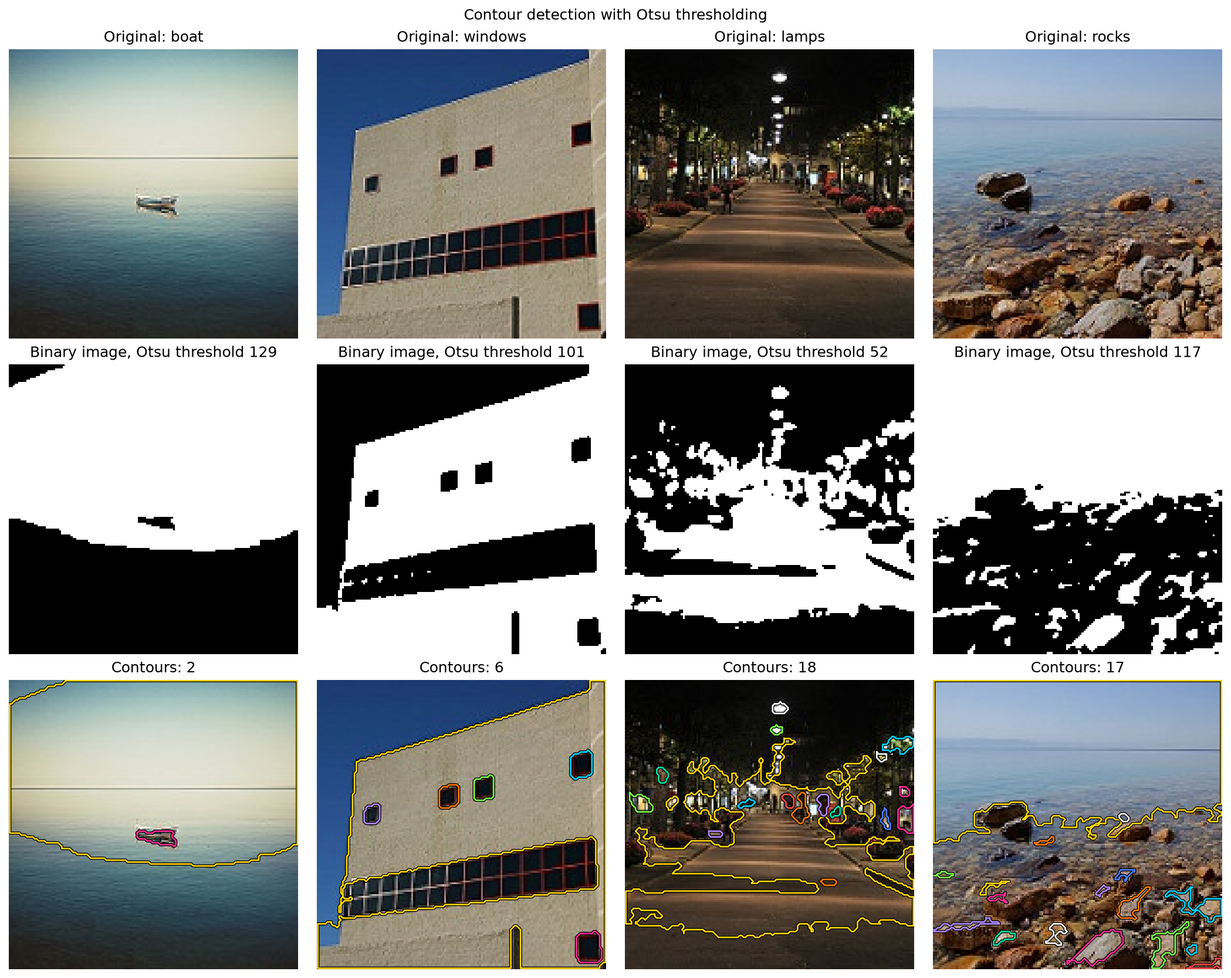
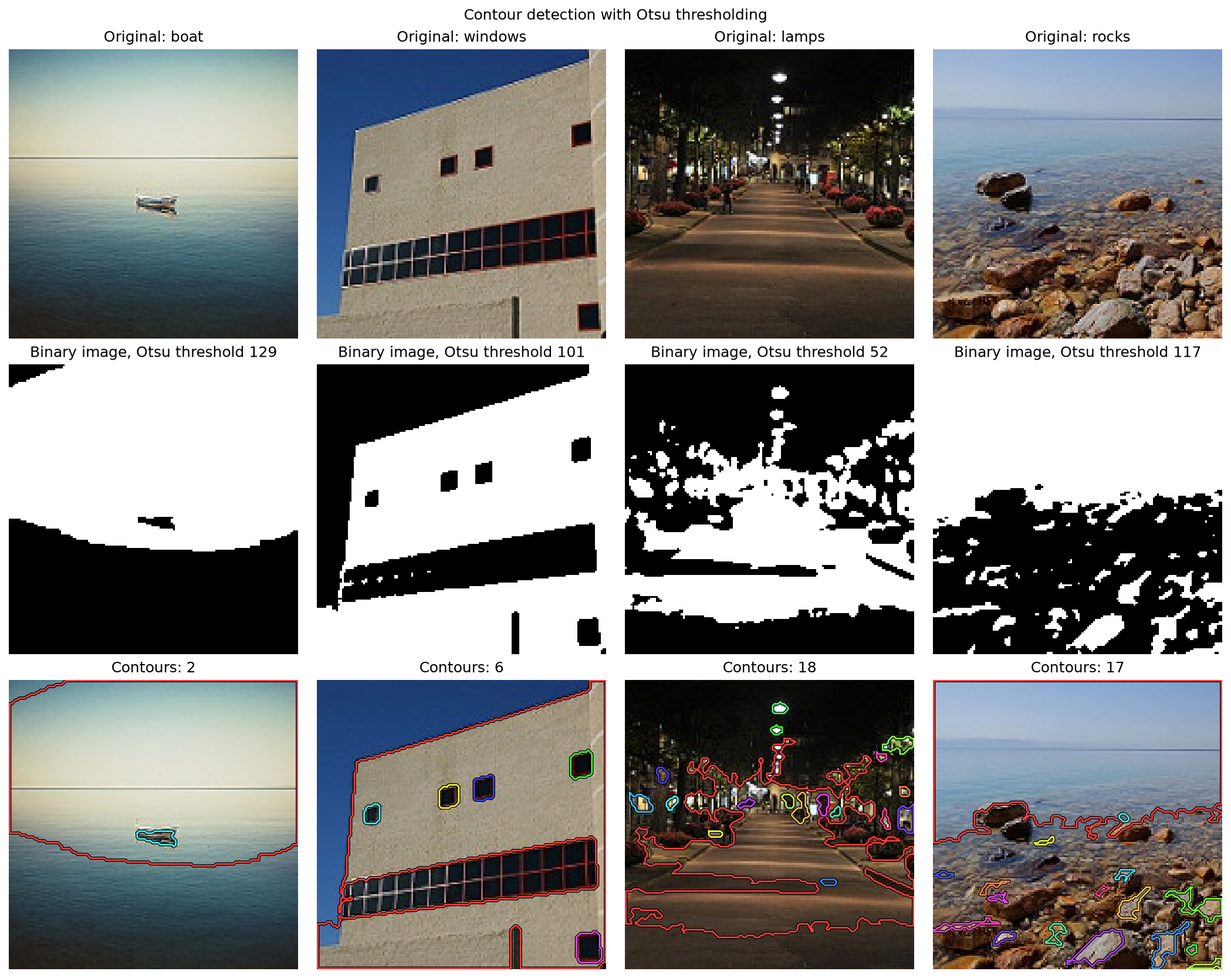
Polish feature detection analysis and project status

diff --git a/src/contour.py b/src/contour.py
@@ -5,6 +5,7 @@ import cv2
 import matplotlib.pyplot as plt
 import numpy as np
 from matplotlib import patheffects
+from matplotlib.colors import hsv_to_rgb
 from matplotlib.lines import Line2D
 
 from blob import BASELINE as BLOB_BASELINE
@@ -28,18 +29,15 @@ PARAMETER_CONFIGURATIONS = [
 PARAMETER_IMAGE = "rocks"
 SWEEP_THRESHOLDS = np.arange(20, 231, 10)
 SWEEP_BLUR_SIZES = [1, 3, 5, 7, 9, 11, 13, 15]
-CONTOUR_COLORS = [
-    "#ffd60a",
-    "#ff2d95",
-    "#00d4ff",
-    "#7cff4f",
-    "#ff7a00",
-    "#b388ff",
-    "#ffffff",
-    "#00e0a4",
-    "#ff4d4d",
-    "#4d7cff",
-]
+
+
+def contour_colors(number_of_contours):
+    # Evenly spaced hues are unique; golden-angle ordering separates neighbours.
+    hue_order = np.argsort((np.arange(number_of_contours) * 0.61803398875) % 1)
+    hues = hue_order / max(number_of_contours, 1)
+    return hsv_to_rgb(np.column_stack([
+        hues, np.full(number_of_contours, 0.75), np.ones(number_of_contours)
+    ]))
 
 
 def to_uint8(image):
@@ -105,13 +103,14 @@ def summarize_contours(contours):
 def draw_contours(axis, color_image, contours):
     axis.imshow(color_image)
     outline = [patheffects.withStroke(linewidth=2.6, foreground="black")]
-    for index, contour in enumerate(contours):
+    colors = contour_colors(len(contours))
+    for contour, color in zip(contours, colors):
         points = contour[:, 0, :]
         closed_points = np.vstack([points, points[:1]])
         axis.plot(
             closed_points[:, 0],
             closed_points[:, 1],
-            color=CONTOUR_COLORS[index % len(CONTOUR_COLORS)],
+            color=color,
             linewidth=1.3,
             path_effects=outline,
         )

diff --git a/report/notes.md b/report/notes.md
@@ -8,9 +8,20 @@ Most of the energy is concentrated near the center of the spectrum. This shows t
 
 ### Low-pass filtering
 
-Gaussian noise with mean 0 and standard deviation 25 was added using a fixed random seed. Cutoff radii of 10, 20 and 35 pixels were selected as increasingly permissive filters, making the balance between noise removal and retained detail easy to observe.
+Gaussian noise with mean 0 and standard deviation 25 was added using the fixed random seed 42. Cutoff radii of 10, 20, 35, 50 and 70 pixels were tested on the same noisy image. MSE is measured against the clean original on the [0, 255] intensity scale, after clipping the reconstructed low-pass images to that range.
 
 Radius 10 removes much of the noise, but it also removes most fine structure. The building remains recognizable, while windows, railings and sharp edges are heavily blurred. Radius 20 gives an intermediate result, with more building structure visible and much of the noise still reduced. Radius 35 preserves substantially more detail, but also keeps more noise. Noise and real image edges can both occupy high-frequency regions, so the filter cannot separate them perfectly.
+
+| Image / cutoff radius | MSE against the clean original |
+|---|---:|
+| Noisy image before filtering | 596.65 |
+| Low-pass, 10 | 1412.22 |
+| Low-pass, 20 | 954.71 |
+| Low-pass, 35 | 724.83 |
+| Low-pass, 50 | 563.39 |
+| Low-pass, 70 | 492.88 |
+
+The full measurements are stored in `results/fourier/low_pass_metrics.csv`. Radii 10, 20 and 35 make the image look smoother while increasing MSE relative to the unfiltered noisy image: losing real high-frequency building structure outweighs the reduction in noise. Radii 50 and 70 retain more fine structure and reduce MSE below the noisy baseline, although visible noise remains. Radius 70 gives the lowest MSE among these five tested cutoffs. This is a result for this image and noise realization, not a universally useful cutoff. The useful radius depends on the image, noise level and desired trade-off between smoothing and detail preservation.
 
 ### High-pass filtering
 
@@ -23,22 +34,26 @@ Edges are emphasized because quick changes between light and dark pixels contain
 | Low-pass | 10 | Strong smoothing; most noise and fine detail removed |
 | Low-pass | 20 | More structure visible while much of the noise is reduced |
 | Low-pass | 35 | Most structure retained, but more noise remains |
+| Low-pass | 50 | Finer structure retained; MSE below the noisy baseline |
+| Low-pass | 70 | Most detail retained; lowest MSE among the tested cutoffs |
 | High-pass | 10 | Broad outlines and texture remain visible |
 | High-pass | 20 | Windows, railings, columns and wires stand out clearly |
 | High-pass | 35 | Fine edges dominate and wider structures fade |
 
 ### Fourier compression
 
-The compression experiment keeps the Fourier coefficients with the largest magnitudes and sets the rest to zero. The image is then reconstructed with the inverse Fourier transform.
+The compression experiment ranks conjugate groups by their mean coefficient magnitude and retains the strongest groups, setting the rest to zero. A real-valued image has a conjugate-symmetric Fourier transform: the coefficient at (u, v) is the conjugate of the coefficient at (-u mod H, -v mod W). Both members of a pair are retained together; self-conjugate bins such as DC count once. Selection stops once the requested count is reached, so finishing a pair can exceed that count by one coefficient.
 
-| Retained coefficients | MSE | Theoretical compression ratio |
-|---:|---:|---:|
-| 1% | 1118.34 | 100:1 |
-| 5% | 613.89 | 20:1 |
-| 10% | 395.36 | 10:1 |
-| 20% | 206.69 | 5:1 |
-| 50% | 46.48 | 2:1 |
-| 100% | 0.00 | 1:1 |
+| Requested coefficients | Actual retained | MSE | Retained coefficient ratio |
+|---:|---:|---:|---:|
+| 1% | 1.0000% | 1118.34 | 100.00:1 |
+| 5% | 5.0044% | 613.75 | 19.98:1 |
+| 10% | 10.0000% | 395.36 | 10.00:1 |
+| 20% | 20.0044% | 206.67 | 5.00:1 |
+| 50% | 50.0044% | 46.48 | 2.00:1 |
+| 100% | 100.0000% | 0.00 | 1.00:1 |
+
+The code checks conjugate symmetry and the inverse transform's imaginary residual before using the real part. Across these reconstructions, the maximum absolute imaginary residual is 7.21 × 10⁻¹⁴ intensity units, consistent with floating-point round-off. The symmetry check, actual counts and percentages, MSE and coefficient ratios are saved in `results/fourier/compression_metrics.csv`. This avoids silently discarding an imaginary component caused by an asymmetric selection.
 
 The reconstruction error decreases as more coefficients are retained. At 1%, the building is still recognizable, but the image is heavily blurred and has visible line patterns. At 5% and 10%, the floors, roof and window layout become clearer, although fine details are still missing. Keeping 20% preserves most major structure while reducing the coefficient count by a factor of five, making it a useful compromise in this experiment. At 50%, the reconstruction is visually close to the original and many fine edges have returned. Keeping 100% reproduces the original image with a reported MSE of 0.00.
 
@@ -46,7 +61,7 @@ The theoretical compression ratio only compares the total number of Fourier coef
 
 ## Principal Component Analysis
 
-The PCA experiment used 200 images from the buildings category of the Intel training set, and PCA was fitted using all 200 images. This category was selected because no facial-emotion dataset was available locally. Using one category also gives a coherent set with recurring structures such as façades, roofs, windows and sky, while retaining variation in viewpoint, shape and lighting that PCA can model.
+The PCA experiment used 200 images from the buildings category of the Intel training set. PCA was fitted on the same 200 images used for reconstruction evaluation. Using one category gives a coherent set with recurring structures such as façades, roofs, windows and sky, while retaining variation in viewpoint, shape and lighting that PCA can model.
 
 ### PCA representation
 
@@ -60,7 +75,7 @@ The image-space eigenvectors are directions of variation, while their eigenvalue
 
 ### Reconstruction experiment
 
-The reconstruction figure shows three representative examples from the 200 images used to fit PCA. Only three are shown to keep the comparison readable. One component retains only broad intensity structure, so the individual buildings are not identifiable. At *k* = 10, the coarse building layout returns, but edges remain heavily blurred. At *k* = 50, the buildings are recognizable but still visibly blurred. The *k* = 100 reconstructions are visually close to the originals, although some fine texture and edge sharpness are still reduced. With all 199 meaningful components, the training images are reconstructed with effectively zero MSE.
+The reconstruction figure shows three examples from the 200 images used to fit PCA. Only three are shown to keep the comparison readable. One component retains only broad intensity structure, so the individual buildings are not identifiable. At *k* = 10, the coarse building layout returns, but edges remain heavily blurred. At *k* = 50, the buildings are recognizable but still visibly blurred. The selected *k* = 85 reconstruction restores more structure while still losing fine texture and sharpness. The *k* = 100 reconstructions are closer to the originals, although some fine texture and edge sharpness are still reduced. With all 199 meaningful components, the training images are reconstructed with effectively zero MSE. This shows training-set reconstruction, not performance on unseen images; no separate train/test experiment is included.
 
 ### Explained variance and reconstruction error
 
@@ -71,25 +86,26 @@ The reconstruction figure shows three representative examples from the 200 image
 | 10 | 0.5928 | 0.024022 |
 | 25 | 0.7211 | 0.016450 |
 | 50 | 0.8231 | 0.010436 |
+| 85 | 0.900621 | 0.00586236 |
 | 100 | 0.9231 | 0.004536 |
 | 150 | 0.9740 | 0.001536 |
 | 199 | 1.0000 | 0.000000 |
 
 Cumulative explained variance increases with *k* because each added component accounts for another direction of variation. MSE decreases because reconstruction takes place in a larger subspace and therefore discards less information. The largest early gains occur before *k* = 50, after which each additional component produces a smaller improvement.
 
-For this experiment, *k* = 50 to 100 is a useful range rather than a universally optimal choice. At *k* = 50, the representation retains 82.31% of the variance and the buildings are recognizable, but the reconstructions remain visibly soft. At *k* = 100, 92.31% of the variance is retained, MSE falls to 0.004536, and the reconstruction is visually close to the original. The appropriate point within this range depends on whether stronger dimensionality reduction or finer image detail matters more.
+The minimum *k* reaching at least 90% cumulative explained variance is computed from the fitted eigenvalues, rather than hardcoded. With the current data it is *k* = 85, retaining 90.0621% of the variance with MSE 0.00586236. This is the selected compromise using a 90% explained-variance criterion. It is not universally optimal: at *k* = 50 the reduction is stronger but only 82.31% of variance remains, while *k* = 100 retains 92.31% with MSE 0.004536. The criterion prioritizes retaining most variation while reducing the per-image representation.
 
 ### Dimensionality reduction
 
-The reported pixel reduction values compare the original 4096 pixel values per image with *k* PCA coefficients. For example, *k* = 100 reduces the per-image representation by a factor of about 40.96. These are not actual file compression ratios because reconstruction also requires the shared PCA basis and mean image. Their storage cost and other file overhead would need to be included in a real compression calculation.
+The reported pixel reduction values compare the original 4096 pixel values per image with *k* PCA coefficients. The selected *k* = 85 gives per-image dimensionality reduction of 4096/85 = 48.19:1; *k* = 100 gives 40.96:1. These are not complete storage compression ratios because reconstruction also requires the shared PCA basis and mean image. Their storage cost and other file overhead would need to be included in a real compression calculation.
 
 ## HOG Features
 
-The experiment used `buildings/1001.jpg`, `street/10019.jpg` and `forest/10037.jpg`. Each image was converted to grayscale and resized to 128 × 128 pixels. The Sobel gradient magnitude shows where intensity changes are strongest. In the building and street images, bright gradient responses follow roof lines, windows, doors and façade boundaries. The forest response is denser because trunks, branches, leaves and the ground create edges across most of the image.
+The experiment used the simple scene `sea/10399.jpg` alongside the existing `buildings/1001.jpg`, `street/10019.jpg` and `forest/10037.jpg`. The sea image consists mainly of smooth sky and water, a clear horizon and a small boat, making the simple-versus-complex comparison explicit. Each image was converted to grayscale and resized to 128 × 128 pixels. The displayed Sobel gradient magnitude is a separate illustration of intensity changes; scikit-image HOG computes its own gradients internally. In the sea image, the strongest responses follow the horizon and boat, with weaker responses from water texture and gradual shading. In the building and street images, bright gradient responses follow roof lines, windows, doors and façade boundaries. The forest response is denser because trunks, branches, leaves and the ground create edges across most of the image.
 
-HOG summarizes local edge directions by collecting gradient orientations within small cells. With the baseline settings of 9 orientations, 8 × 8 pixels per cell and 2 × 2 cells per block, the building produces repeated horizontal and vertical patterns. The street also has strong vertical edges, together with diagonals that follow the street perspective. The forest pattern is less regular, although the tree trunks still produce clear vertical responses.
+HOG summarizes local edge directions by collecting gradient orientations within small cells. With the baseline settings of 9 orientations, 8 × 8 pixels per cell and 2 × 2 cells per block, the simple sea scene has fewer strong structures than the building, street and forest. The building produces repeated horizontal and vertical patterns. The street also has strong vertical edges, together with diagonals that follow the street perspective. The forest pattern is less regular, although the tree trunks still produce clear vertical responses. The original parameter grid is unchanged and still applied only to the building image.
 
-The aggregated baseline HOG values support these visual differences. The building has its strongest response in the 90° gradient bin, which contains 23.5% of its total orientation strength. The street places 36.4% in the two bins nearest 0° and 180°, with additional responses in diagonal bins. The forest distribution is flatter: each bin contains between 10.1% and 13.2%. This shows that its local edge directions are spread more evenly than those of the structured scenes. Gradient directions are perpendicular to the corresponding image edges.
+The orientation summary adds the block-normalized HOG values and normalizes their sum, so it represents relative strength in the HOG descriptor, not a literal percentage of all image edges. The simple sea scene has its largest share, 29.9%, in the 90° gradient bin, consistent with its horizontal horizon and water structure. The building also has its strongest response in that bin, with 23.5%. The street places 36.4% in the two bins nearest 0° and 180°, with additional responses in diagonal bins. The forest distribution is flatter: each bin contains between 10.1% and 13.2%. Gradient directions are perpendicular to the corresponding image edges. Block normalization allows weak local texture to contribute too, so even the simple scene's descriptor is not confined to its most visible horizon.
 
 ### Parameter experiment
 
@@ -99,13 +115,13 @@ Using 6 orientation bins gives a coarser set of directions and 5400 descriptor v
 
 ## Local Binary Patterns
 
-The experiment used three grayscale images with different kinds of texture. The natural scene is `forest/10037.jpg` from the Intel training set. The other two are sample images bundled with scikit-image: `brick`, a regular man-made texture, and the face region cropped from `astronaut`. Each image was converted to grayscale and resized to 128 × 128 pixels, so that all three histograms are built from the same number of pixels.
+The experiment used three grayscale images with different kinds of texture. The natural scene is `forest/10037.jpg` from the Intel training set. The other two are scikit-image sample images: [`brick`](https://scikit-image.org/docs/stable/api/skimage.data.html#skimage.data.brick), a 512 × 512 grayscale wall texture originally obtained from CC0Textures under CC0 and transformed by scikit-image, and [`astronaut`](https://scikit-image.org/docs/stable/api/skimage.data.html#skimage.data.astronaut), a 512 × 512 colour photograph of Eileen Collins from NASA's Great Images collection. We use rows 10:210 and columns 130:330 of `astronaut` as the face region. All input images are converted to grayscale and resized to 128 × 128; the LBP outputs are 126 × 126 because border pixels are excluded. Thus all histograms use the same 15,876 interior pixels.
 
 ### LBP computation
 
 The LBP function was written with NumPy instead of a library routine. Each pixel is compared with its eight direct neighbours. A neighbour that is at least as bright as the centre gives a 1, and a darker neighbour gives a 0. The eight bits are read clockwise from the top-left neighbour, which is the lowest bit, and together they form a code between 0 and 255. Border pixels do not have eight neighbours, so only interior pixels receive a code and the LBP image is 126 × 126.
 
-The code records only whether each neighbour is brighter or darker, not by how much. An overall change in brightness therefore leaves the codes unchanged. The same property means that weak noise in a smooth area produces codes just as readily as a strong edge does.
+The code records only whether each neighbour is brighter or darker, not by how much. Comparison-based LBP is invariant to monotonic intensity transformations that preserve neighbour comparisons, such as a strictly increasing transform applied without clipping or quantization. Clipping and quantization can introduce ties or change comparisons and therefore change patterns. Weak noise in a smooth area produces codes just as readily as a strong edge does.
 
 ### LBP images
 
@@ -143,10 +159,10 @@ Blob detection was applied to four images from the Intel training set, chosen to
 
 A blob is a region that is brighter or darker than its surroundings. The detector uses the Laplacian of Gaussian (LoG). The image is first smoothed with a Gaussian of width σ, and the Laplacian then measures how much each pixel differs from its neighbourhood. The response is strongest at the centre of a blob whose size matches σ. A bright blob gives a negative response and a dark blob a positive one, so the sign separates the two types.
 
-The algorithm was implemented with the following steps, using OpenCV only for the Gaussian blur and the Laplacian filter:
+The detector's scale search and overlap pruning are implemented in our code. OpenCV provides the Gaussian blur, Laplacian filter and `cv2.dilate` for spatial neighbourhood maxima:
 
 1. Compute the LoG response for 11 values of σ from 2 to 12. Each response is multiplied by σ², which makes responses from different scales comparable.
-2. Find points that are larger than all 26 neighbours in position and scale, and above a threshold. Each such point is a blob with centre (x, y) and radius √2 · σ.
+2. Find points whose response equals the maximum in their 3 × 3 × 3 position-and-scale neighbourhood and is strictly above the threshold. Equal-valued maxima are accepted, rather than requiring a response strictly greater than every neighbour; at the scale endpoints only available adjacent scales are compared. Each such point is a blob with centre (x, y) and radius √2 · σ.
 3. Remove overlapping detections. Blobs are sorted by response strength, and a blob is dropped if more than half of the smaller circle is covered by a stronger blob.
 
 Bright and dark blobs are found separately by running steps 2 and 3 on the negated and the original response. The implementation was checked on synthetic discs with known position and radius, where it returned the correct centres and the nearest available radius. For an ideal disc the response is about 0.74 times the contrast between the disc and its background. The baseline threshold of 0.2 therefore corresponds to a contrast of roughly 0.27 on the [0, 1] intensity scale.
@@ -188,7 +204,7 @@ The overlap limit had little effect here. Without pruning, the rocks image gives
 
 ### Limitations
 
-The detector describes every blob as a circle, so elongated or rectangular objects such as the boat and the window band are represented poorly. It reacts to contrast, not to objects, and can therefore split one object into several blobs or respond to shadows. Detections on the image border are caused by the image edge and not by real structures.
+The detector describes every blob as a circle, so elongated or rectangular objects such as the boat and the window band are represented poorly. It reacts to contrast, not to objects, and can therefore split one object into several blobs or respond to shadows. Border responses can be influenced both by cropped real structures and by the filters' border handling, so a border detection is not automatically an image-boundary artifact. Its size and position require cautious interpretation because part of the surrounding structure is unavailable.
 
 ## Contour Detection
 
@@ -200,10 +216,12 @@ A contour is the closed outline of a connected region. The detector first turns 
 
 1. Smooth the image with a 5 × 5 Gaussian filter to remove small details and noise.
 2. Threshold the image. Pixels brighter than the threshold become white and the rest black. The baseline uses Otsu's method, which chooses the threshold that best separates the image histogram into a dark and a bright group.
-3. Trace the borders with OpenCV's `findContours`, which follows the edge of each white region and of each black hole inside a white region.
+3. Trace the borders with OpenCV's `findContours` using `RETR_LIST`, which returns both outer boundaries of white regions and boundaries of black holes inside them, without preserving their parent/child hierarchy in the returned list.
 4. Discard contours with an area below 15 pixels².
 
 For each contour the area, the perimeter and the centre of mass are calculated. The measurements were checked on synthetic shapes. A rectangle was measured exactly. For a disc of radius 20 the area was 1200 pixels² instead of 1257 and the perimeter 131.9 instead of 125.7, because the outline follows the pixel grid in small steps.
+
+Each contour is drawn with a unique bright colour generated for that image, with a black outline for visibility; the former ten-colour palette is no longer repeated. Contours describe binary-region boundaries, not semantic objects. A single object can yield multiple contours, holes are counted separately, and background regions can contribute contours, so contour count should not automatically be interpreted as object count.
 
 ### Results
 

diff --git a/notebooks/PROJECT_STATUS.md b/notebooks/PROJECT_STATUS.md
@@ -1,134 +1,52 @@
 # Assignment 2 status
 
-Dette er en kort recap av arbeidet så langt, slik at det er lett å hoppe inn i prosjektet. Alle seks kodeoppgavene er ferdige. Det som gjenstår står under [Veien videre](#veien-videre).
+Alle seks metoder er implementert og kontrollert etter den tekniske sluttgjennomgangen. Kode, CSV-er og figurer er oppdatert. Sluttrapporten er ikke skrevet.
 
 ## Datasett
 
-Vi bruker hovedsakelig Intel Image Classification-datasettet. Datasettene ligger lokalt under `data/` og spores ikke i Git.
-
-Fourier-delen bruker ett bilde fra `buildings` gjennom alle eksperimentene. Det gjør resultatene enkle å sammenligne. PCA bruker 200 bilder fra samme kategori. Bildene gjøres om til grayscale og skaleres til 64 × 64 piksler. Vi bruker én kategori for å undersøke variasjon mellom lignende scener, i stedet for å blande helt ulike klasser.
-
-HOG, blob detection og contour detection bruker enkeltbilder fra Intel-settet. LBP bruker ett Intel-bilde og to eksempelbilder som følger med scikit-image.
+Intel Image Classification var ett av datasettene utdelt på Blackboard. Data ligger lokalt under `data/` og spores ikke i Git. PCA bruker 200 tilfeldig valgte `buildings`-bilder med fast seed, grayscale og 64 × 64 piksler. LBP bruker også scikit-image-bildene `brick` og et ansiktsutsnitt fra `astronaut`; kildene er lenket i arbeidsnotatene.
 
 ## Fourier Transform
 
-**Status:** Ferdig
+[Kode](../src/fourier.py) · [Resultater](../results/fourier/)
 
-**Kode:** [`src/fourier.py`](../src/fourier.py)
-
-**Resultater:** [`results/fourier/`](../results/fourier/)
-
-Dette er gjort:
-
-- Visualisert 2D Fourier magnitude spectrum.
-- Testet low-pass filtering med Gaussian noise og cutoff 10, 20 og 35.
-- Testet high-pass filtering med de samme cutoff-verdiene.
-- Testet Fourier-komprimering med 1 %, 5 %, 10 %, 20 %, 50 % og 100 % beholdte koeffisienter.
-- Brukt MSE for å sammenligne rekonstruksjonene.
-
-Formålet er å vise forskjellen mellom lave og høye romlige frekvenser, og hvordan smoothing, detaljer, støy og komprimering påvirker hverandre.
+- Spektrum, low-pass og high-pass er visualisert. High-pass beholder radiene 10, 20 og 35.
+- Low-pass tester 10, 20, 35, 50 og 70 med samme støy. MSE mot rent bilde står i `low_pass_metrics.csv`. De tre minste radiene øker MSE; 50 og 70 senker den. Radius 70 er best av de testede for dette forsøket.
+- Komprimering beholder konjugerte koeffisientpar. `compression_metrics.csv` oppgir faktisk beholdt andel, MSE, koeffisientforhold og symmetri-/imaginærrestkontroll. Største imaginærrest er 7,21 × 10⁻¹⁴. Koeffisientforhold er ikke filkomprimering.
 
 ## PCA
 
-**Status:** Ferdig
+[Kode](../src/pca.py) · [Resultater](../results/pca/)
 
-**Kode:** [`src/pca.py`](../src/pca.py)
-
-**Resultater:** [`results/pca/`](../results/pca/)
-
-Dette er gjort:
-
-- Brukt 200 bilder fra `buildings`.
-- Gjort hvert 64 × 64-bilde om til 4096 pikselverdier.
-- Implementert PCA manuelt med NumPy.
-- Brukt sample-space covariance fordi antall bilder er mye mindre enn antall piksler.
-- Testet flere verdier av *k* og målt cumulative explained variance og MSE.
-- Rekonstruert bilder med ulike verdier av *k*.
-
-I dette eksperimentet er *k* = 50–100 et nyttig område. Ved *k* = 100 beholdes 92,31 % av variansen, og rekonstruksjonene er visuelt nær originalene. Rekonstruksjonsfiguren viser tre representative bilder for å være lesbar, men PCA er tilpasset med alle 200 bildene. De målte verdiene ligger i [`results/pca/metrics.csv`](../results/pca/metrics.csv).
+- Manuell NumPy-PCA med sample-space covariance er bevart.
+- Minste *k* som når 90 % varians beregnes fra data: **85**, med **90,0621 %** varians, **MSE 0,00586236** og **48,19:1** dimensjonsreduksjon per bilde. Valget inngår i CSV og rekonstruksjonsfigur.
+- Dette er valgt kompromiss med et 90 %-varianskriterium. Evalueringen bruker de samme 200 bildene som tilpasningen; nær null MSE ved 199 gjelder treningssettet. Dimensjonsreduksjon inkluderer ikke lagring av basis og middelbilde.
 
 ## HOG Features
 
-**Status:** Ferdig
+[Kode](../src/hog.py) · [Resultater](../results/hog/)
 
-**Kode:** [`src/hog.py`](../src/hog.py)
-
-**Resultater:** [`results/hog/`](../results/hog/)
-
-HOG beskriver lokal form ved å samle retningene til bildegradientene. Vi valgte en strukturert bygning, en gate med tydelig perspektiv og en kompleks skog for å sammenligne ulike kantmønstre.
-
-Baseline er 9 orienteringer, 8 × 8 piksler per celle og 2 × 2 celler per blokk. Cellestørrelse, blokkstørrelse og antall orienteringer varieres for å undersøke balansen mellom detaljnivå og størrelsen på descriptoren.
+- Enkel sjøscene `sea/10399.jpg` er lagt til ved siden av bygning, gate og kompleks skog. Alle fire har original-, Sobel- og HOG-visualisering.
+- Eksisterende parameterforsøk er bevart. Sobel er en separat illustrasjon; HOG beregner egne gradienter. Orienteringssammendraget viser relativ descriptorstyrke.
 
 ## LBP
 
-**Status:** Ferdig
+[Kode](../src/lbp.py) · [Resultater](../results/lbp/)
 
-**Kode:** [`src/lbp.py`](../src/lbp.py)
-
-**Resultater:** [`results/lbp/`](../results/lbp/)
-
-Dette er gjort:
-
-- Skrevet basic 8-nabo LBP og histogramfunksjonen selv med NumPy.
-- Brukt tre bilder i 128 × 128: skog fra Intel-settet, pluss `brick` og ansiktsutsnittet fra `astronaut`, som følger med scikit-image.
-- Laget LBP-bilde og histogram for hvert bilde, og en felles histogramsammenligning.
-- Målt andel uniforme mønstre, entropi og de vanligste kodene.
-
-Mursteinen har det mest konsentrerte histogrammet, og skogen det flateste. De målte verdiene ligger i [`results/lbp/metrics.csv`](../results/lbp/metrics.csv).
+Kjernen er uendret. Notatene oppgir bildekilder, 128 × 128 input / 126 × 126 output og presis intensitetsinvarians med forbehold om clipping og kvantisering.
 
 ## Blob detection
 
-**Status:** Ferdig
+[Kode](../src/blob.py) · [Resultater](../results/blob/)
 
-**Kode:** [`src/blob.py`](../src/blob.py)
-
-**Resultater:** [`results/blob/`](../results/blob/)
-
-Dette er gjort:
-
-- Implementert Laplacian of Gaussian-detektoren selv, med OpenCV bare til Gaussisk blur og Laplace-filter.
-- Brukt fire bilder fra Intel-settet i original størrelse: båt, vinduer, gatelykter og steiner.
-- Markert lyse og mørke blobs med sirkler på originalbildene.
-- Målt antall, størrelse og posisjon for hver blob.
-- Testet terskel, skalaområde og overlappgrense.
-
-Baseline er σ fra 2 til 12 i 11 steg, terskel 0,2 og overlapp 0,5. Terskelen har størst effekt. De målte verdiene ligger i [`results/blob/metrics.csv`](../results/blob/metrics.csv) og [`results/blob/blobs.csv`](../results/blob/blobs.csv).
+Detektoren og forsøkene er uendret. Forklaringen inkluderer `cv2.dilate`, aksept av like nabolagsmaksima og at både avskårne strukturer og randbehandling påvirker randresponser.
 
 ## Contour detection
 
-**Status:** Ferdig
+[Kode](../src/contour.py) · [Resultater](../results/contour/)
 
-**Kode:** [`src/contour.py`](../src/contour.py)
-
-**Resultater:** [`results/contour/`](../results/contour/)
-
-Dette er gjort:
-
-- Brukt de samme fire bildene som i blob detection, og gjenbrukt bildeutvalget fra `src/blob.py`.
-- Glattet, terskelet med Otsu og sporet konturene med OpenCV sin `findContours`.
-- Tegnet hver kontur i egen farge på originalbildene.
-- Målt antall, areal, omkrets og posisjon for hver kontur.
-- Testet terskelverdi, blur-størrelse og minsteareal.
-- Sammenlignet blob og contour på de samme bildene.
-
-Baseline er 5 × 5 Gaussisk blur, Otsu-terskel og minsteareal 15 piksler². Contour gir faktisk form og areal, men slår sammen områder som henger sammen. Blob skiller tette lyspunkter bedre. De målte verdiene ligger i [`results/contour/metrics.csv`](../results/contour/metrics.csv) og [`results/contour/contours.csv`](../results/contour/contours.csv).
-
-## Rapport
-
-Arbeidsnotater og analyse ligger i [`report/notes.md`](../report/notes.md). Notatene bygges ut etter hver del og skal senere brukes som grunnlag for sluttrapporten. Dette er ikke ferdig rapporttekst ennå.
+Algoritmen og parameterforsøkene er bevart. Hver kontur får unik synlig farge, og de berørte figurene er regenerert. `RETR_LIST` inkluderer ytre grenser og hull; konturantall er ikke automatisk objektantall.
 
 ## Veien videre
 
-### Forbedringer i det som er gjort
-
-Hver del vurderes 30 % på forklaring, 30 % på resultater og 40 % på innsikt i diskusjonen. Punktene under er små endringer som styrker diskusjonen.
-
-- **PCA, optimal k:** oppgaven ber oss «determine the optimal number of components», mens notatene bare oppgir området 50–100. Vi har valgt *k* = 85, som beholder 90 % av variansen. Det gjenstår å skrive dette inn i notatene. Til sammenligning nås 80 % ved *k* = 43 og 95 % ved *k* = 123.
-- **PCA, valg av datasett:** notatene begrunner `buildings` med at vi manglet et ansiktsdatasett. Oppgaven tillater «any other category», så begrunnelsen bør være faglig.
-- **HOG, enkel scene:** oppgaven krever «both simple and complex scenes». Bygning, gate og skog er alle ganske komplekse. Vi lar bildene stå og omtaler bygningen som den enkle scenen. Hvis vi ombestemmer oss, kan vi legge til et rolig bilde fra `sea` eller `glacier`.
-- **Fourier, low-pass:** filtrene sammenlignes bare visuelt. Regn ut MSE mot originalen for de tre radiene.
-
-### Rapporten
-
-- Beskriv datasettene kort. Oppgaven krever en beskrivelse av datasett utenfra, og det gjelder også de to scikit-image-bildene i LBP.
-- Si tydelig hva som er egen implementasjon og hva som er bibliotek. PCA, LBP og blob-detektoren er skrevet selv. HOG bruker scikit-image, og konturene spores med OpenCV sin `findContours`.
+[Arbeidsnotatene](../report/notes.md) er oppdatert med de målte resultatene og metodens begrensninger. Neste steg er sluttrapporten: samle forklaringer, figurer, tabeller og kilder, og skill tydelig mellom egen kode og bibliotekfunksjoner. Oppgaven vekter forklaring 30 %, resultater 30 % og diskusjon 40 %.
